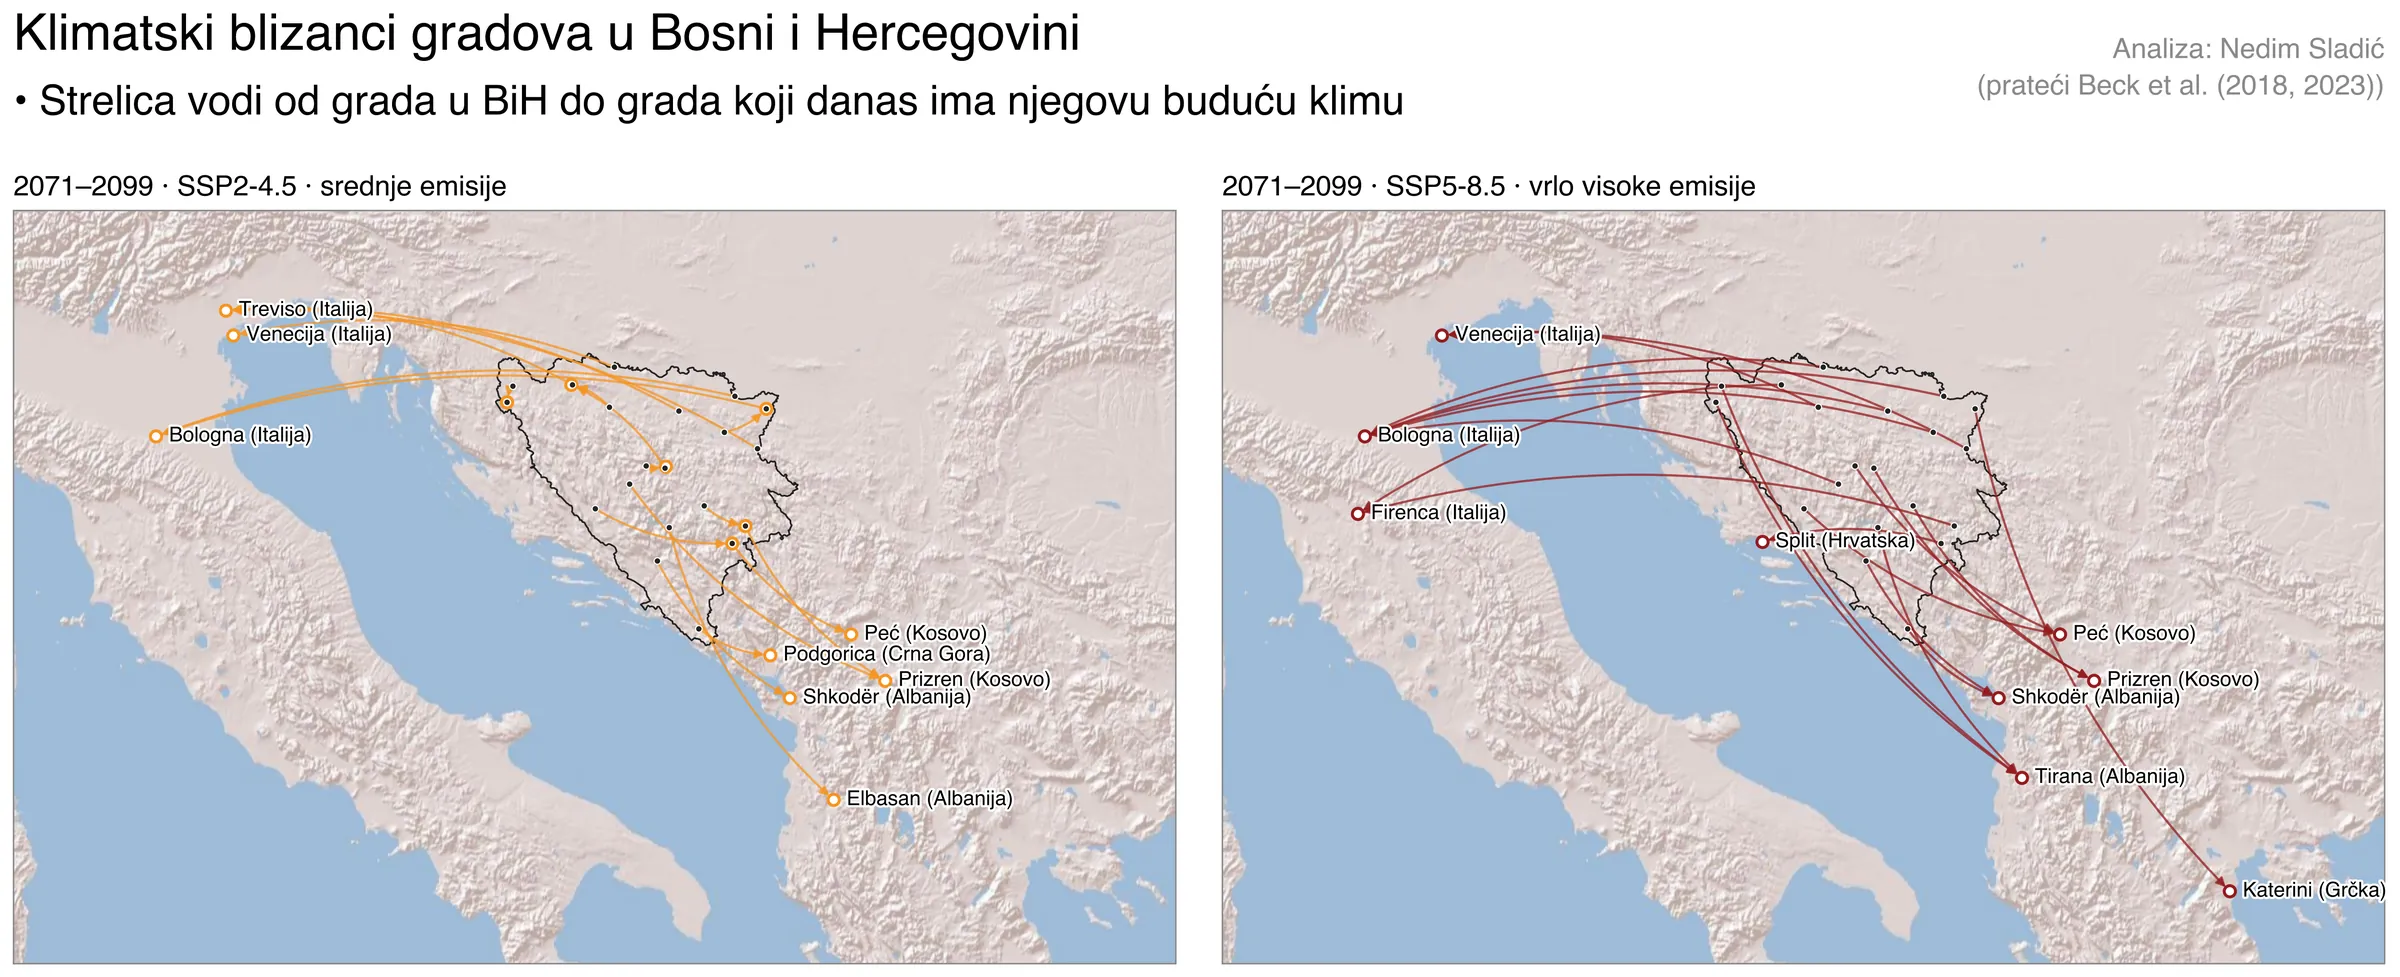
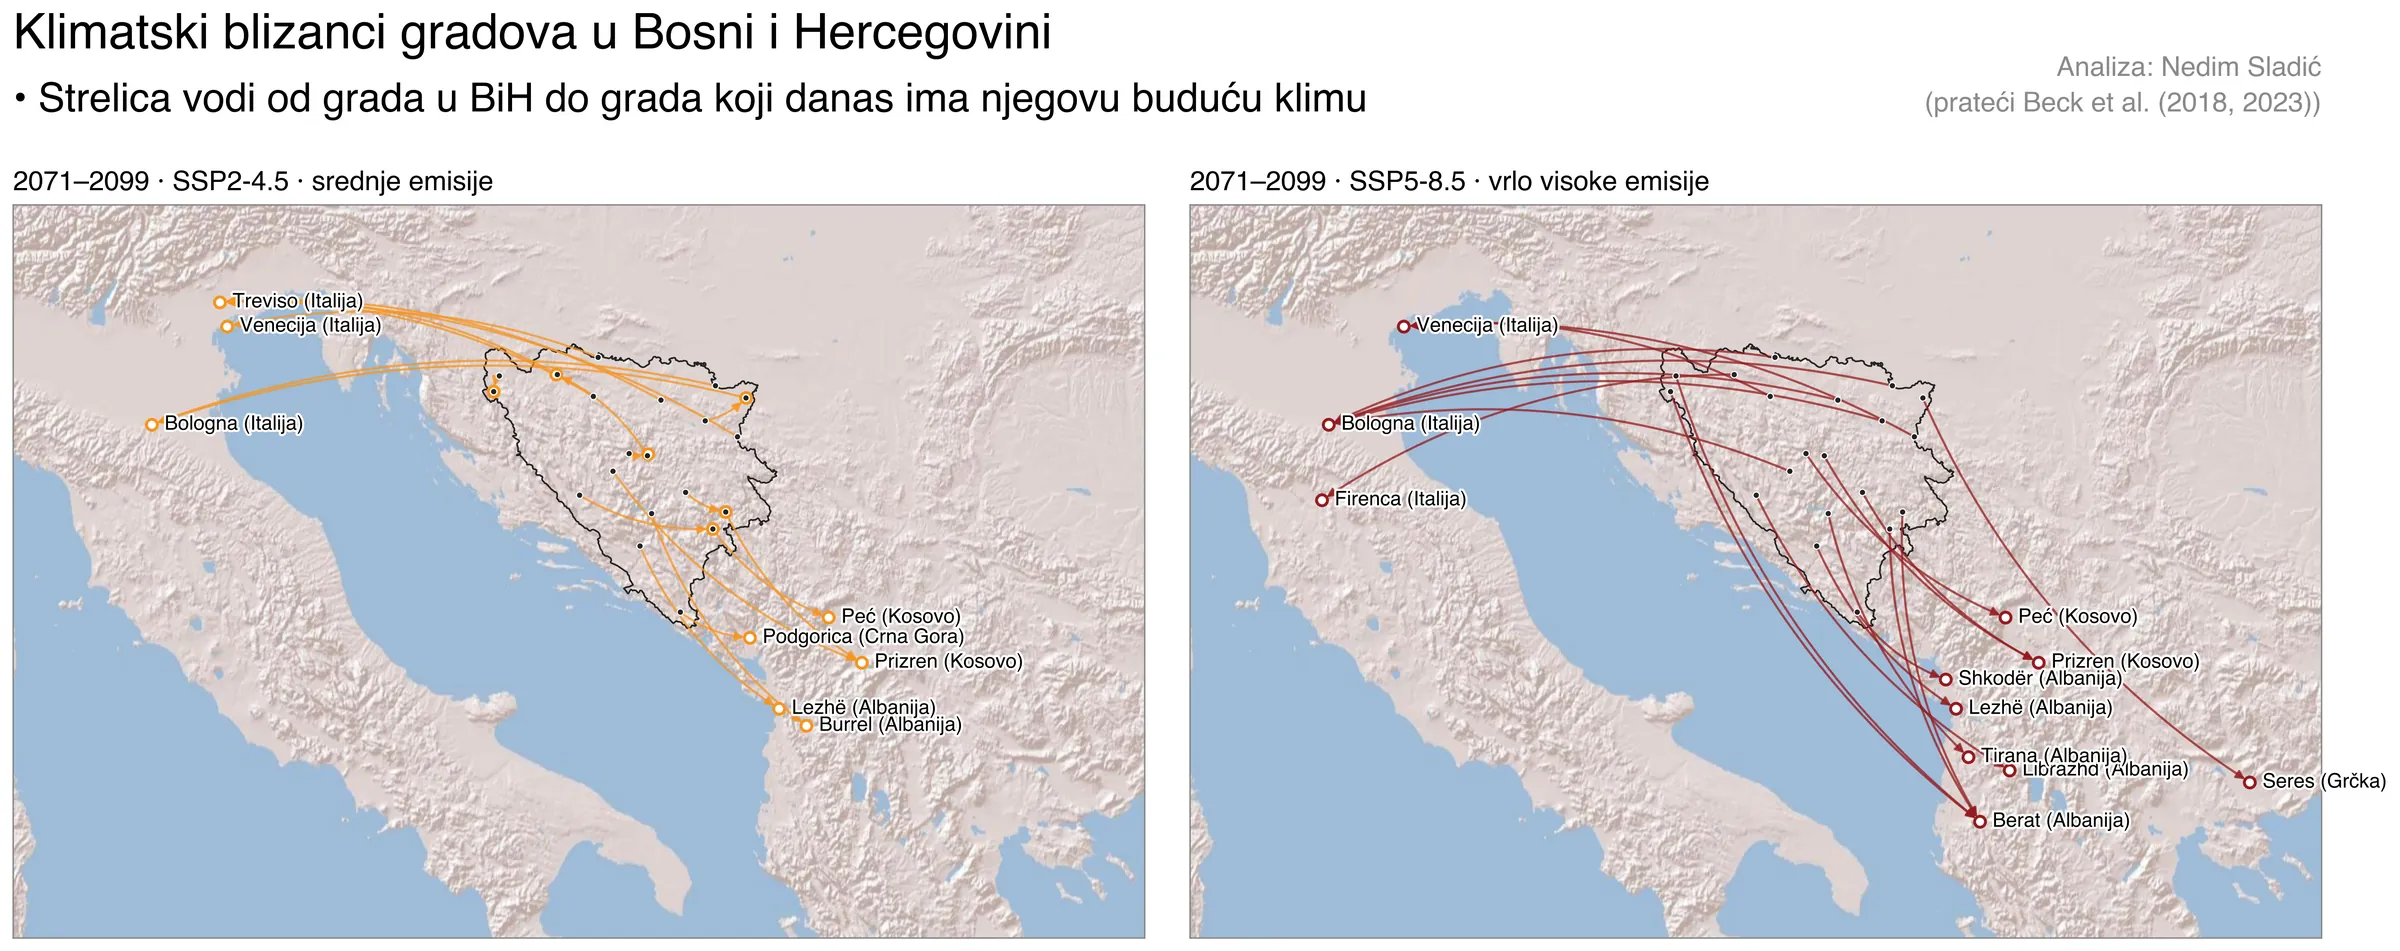
Klimatski blizanci: svi scenariji, manji gradovi, kvalitet podudaranja

diff --git a/index.html b/index.html
@@ -736,18 +736,29 @@ footer strong { font: 700 1.15rem/1.4 var(--f-display); color: var(--ink); displ
     <div class="head text">
       <p class="label"><span class="bs">Gradovi s istom klimom</span><span class="en">Cities with the same climate</span></p>
       <h2><span class="bs">Klimatski <em>blizanci</em></span><span class="en">Climate <em>twins</em></span></h2>
-      <p class="bs">Za svaki grad u BiH tražili smo grad u Evropi i na Mediteranu koji danas ima klimu kakvu bi taj grad mogao imati.
-        Prema SSP5-8.5 do 2071–2099 Banja Luka i Zvornik bi imali klimu današnje Venecije, Tuzla, Brčko i Doboj Bologne,
-        Sarajevo i Zenica Prizrena, a Mostar i Trebinje Skadra. Prema SSP2-4.5 blizanci su većinom bliži: Treviso, Podgorica ili topliji gradovi u BiH.</p>
-      <p class="en">For every city in BiH we looked for the city in Europe or the Mediterranean that has its possible future climate today.
-        Under SSP5-8.5 by 2071–2099, Banja Luka and Zvornik would have the climate of today's Venice, Tuzla, Brčko and Doboj that of Bologna,
-        Sarajevo and Zenica that of Prizren, and Mostar and Trebinje that of Shkodër. Under SSP2-4.5 the twins are mostly closer:
-        Treviso, Podgorica or warmer cities within BiH.</p>
+      <p class="bs">Za svaki grad u BiH tražili smo grad u Evropi i na Mediteranu (od 10.000 stanovnika naviše) koji danas ima klimu
+        kakvu bi taj grad mogao imati. Prema SSP5-8.5 do 2071–2099 Banja Luka i Zvornik bi imali klimu današnje Venecije,
+        Tuzla, Brčko i Doboj Bologne, Sarajevo i Zenica Prizrena, Mostar Lješa, a Trebinje Skadra. Prema SSP1-2.6 i SSP2-4.5
+        blizanci su bliži: Treviso, Podgorica, Peć ili topliji gradovi u samoj BiH.</p>
+      <p class="bs">Boja pokazuje koliko je blizanac dobar. Što su emisije veće, to je podudaranje slabije: prema SSP5-8.5 za Posavinu
+        i Semberiju danas ne postoji grad s tako vrućim ljetom uz takve zime i padavine, pa su i najbliži blizanci za 2–4 °C hladniji u julu.
+        Isti blizanci dobijaju se i kad se traži među gradovima cijelog svijeta.</p>
+      <p class="en">For every city in BiH we looked for a city in Europe or the Mediterranean (10,000 people or more) that has its possible
+        future climate today. Under SSP5-8.5 by 2071–2099, Banja Luka and Zvornik would have the climate of today's Venice, Tuzla, Brčko and
+        Doboj that of Bologna, Sarajevo and Zenica that of Prizren, Mostar that of Lezhë and Trebinje that of Shkodër. Under SSP1-2.6 and
+        SSP2-4.5 the twins are closer: Treviso, Podgorica, Peć or warmer cities within BiH.</p>
+      <p class="en">Colour shows how good the match is. The higher the emissions, the weaker the match: under SSP5-8.5 no city today has
+        summers as hot as future Posavina and Semberija together with similar winters and rainfall, so even the closest twins are 2–4 °C
+        cooler in July. A search among cities worldwide gives the same twins.</p>
     </div>
     <figure><a class="plate" href="#" data-src="img/klimatski_blizanci_karta.webp" data-cap="Klimatski blizanci: karta">
       <img src="img/klimatski_blizanci_karta.webp" alt="Karta sa strelicama od gradova u BiH do njihovih klimatskih blizanaca" loading="lazy"></a></figure>
-    <figure><a class="plate" href="#" data-src="img/klimatski_blizanci_tabela.webp" data-cap="Klimatski blizanci: tabela">
-      <img src="img/klimatski_blizanci_tabela.webp" alt="Tabela klimatskih blizanaca za 20 gradova i četiri scenarija" loading="lazy"></a></figure>
+    <div class="controls"><div class="grp tabs" data-target="blizImg">
+      <button class="chip" aria-pressed="false" data-src="img/klimatski_blizanci_tabela_2041_2070.webp">2041–2070</button>
+      <button class="chip" aria-pressed="true" data-src="img/klimatski_blizanci_tabela_2071_2099.webp">2071–2099</button>
+    </div></div>
+    <figure><a class="plate" href="#" id="blizImg" data-src="img/klimatski_blizanci_tabela_2071_2099.webp" data-cap="Klimatski blizanci: svi scenariji">
+      <img src="img/klimatski_blizanci_tabela_2071_2099.webp" alt="Tabela klimatskih blizanaca za 20 gradova i sedam scenarija" loading="lazy"></a></figure>
   </section>
 
   <section id="opcine">
